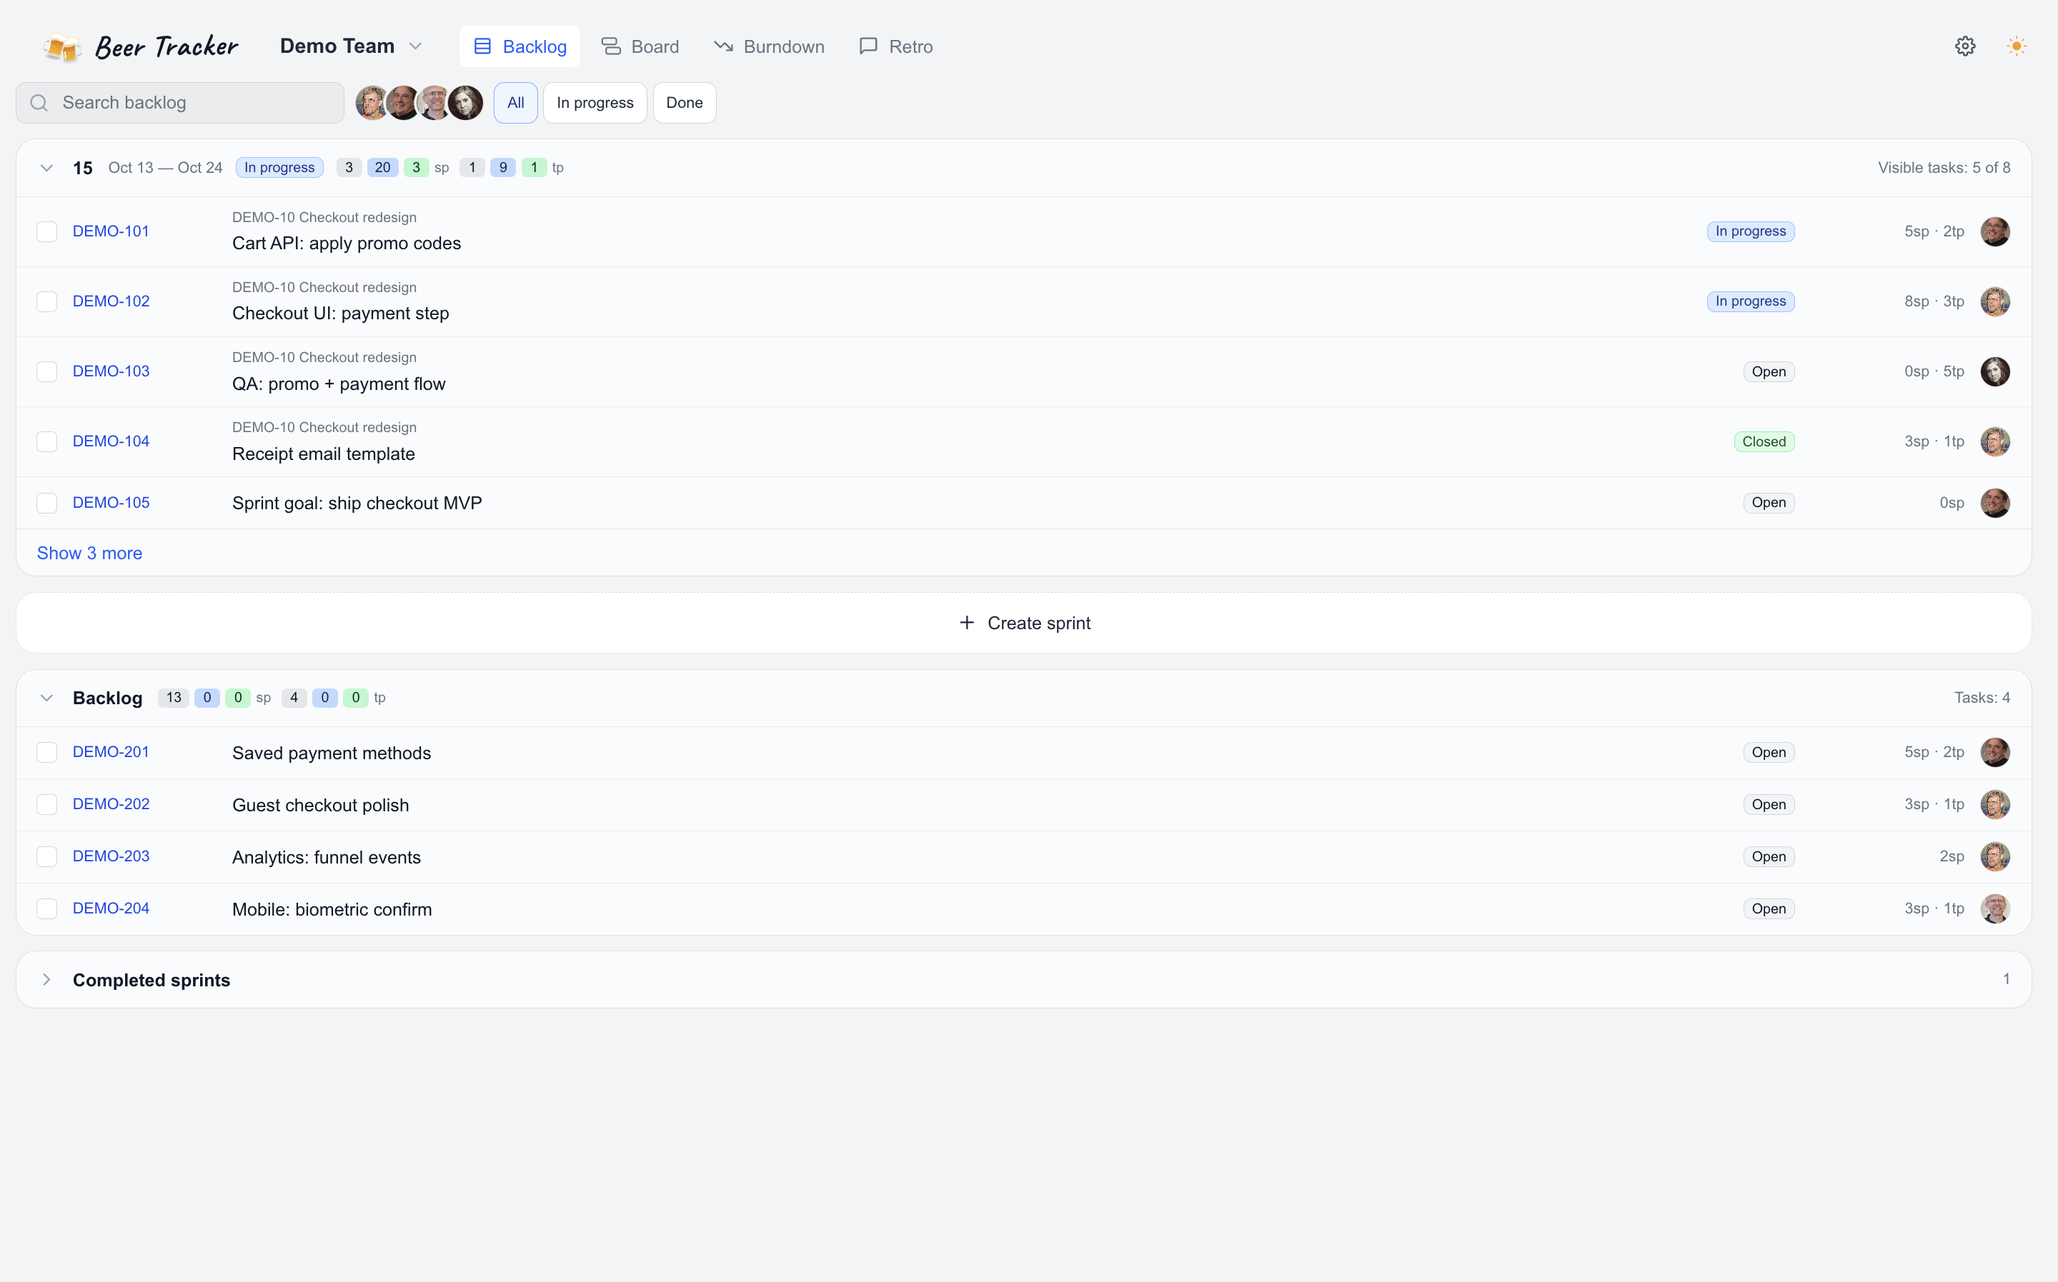
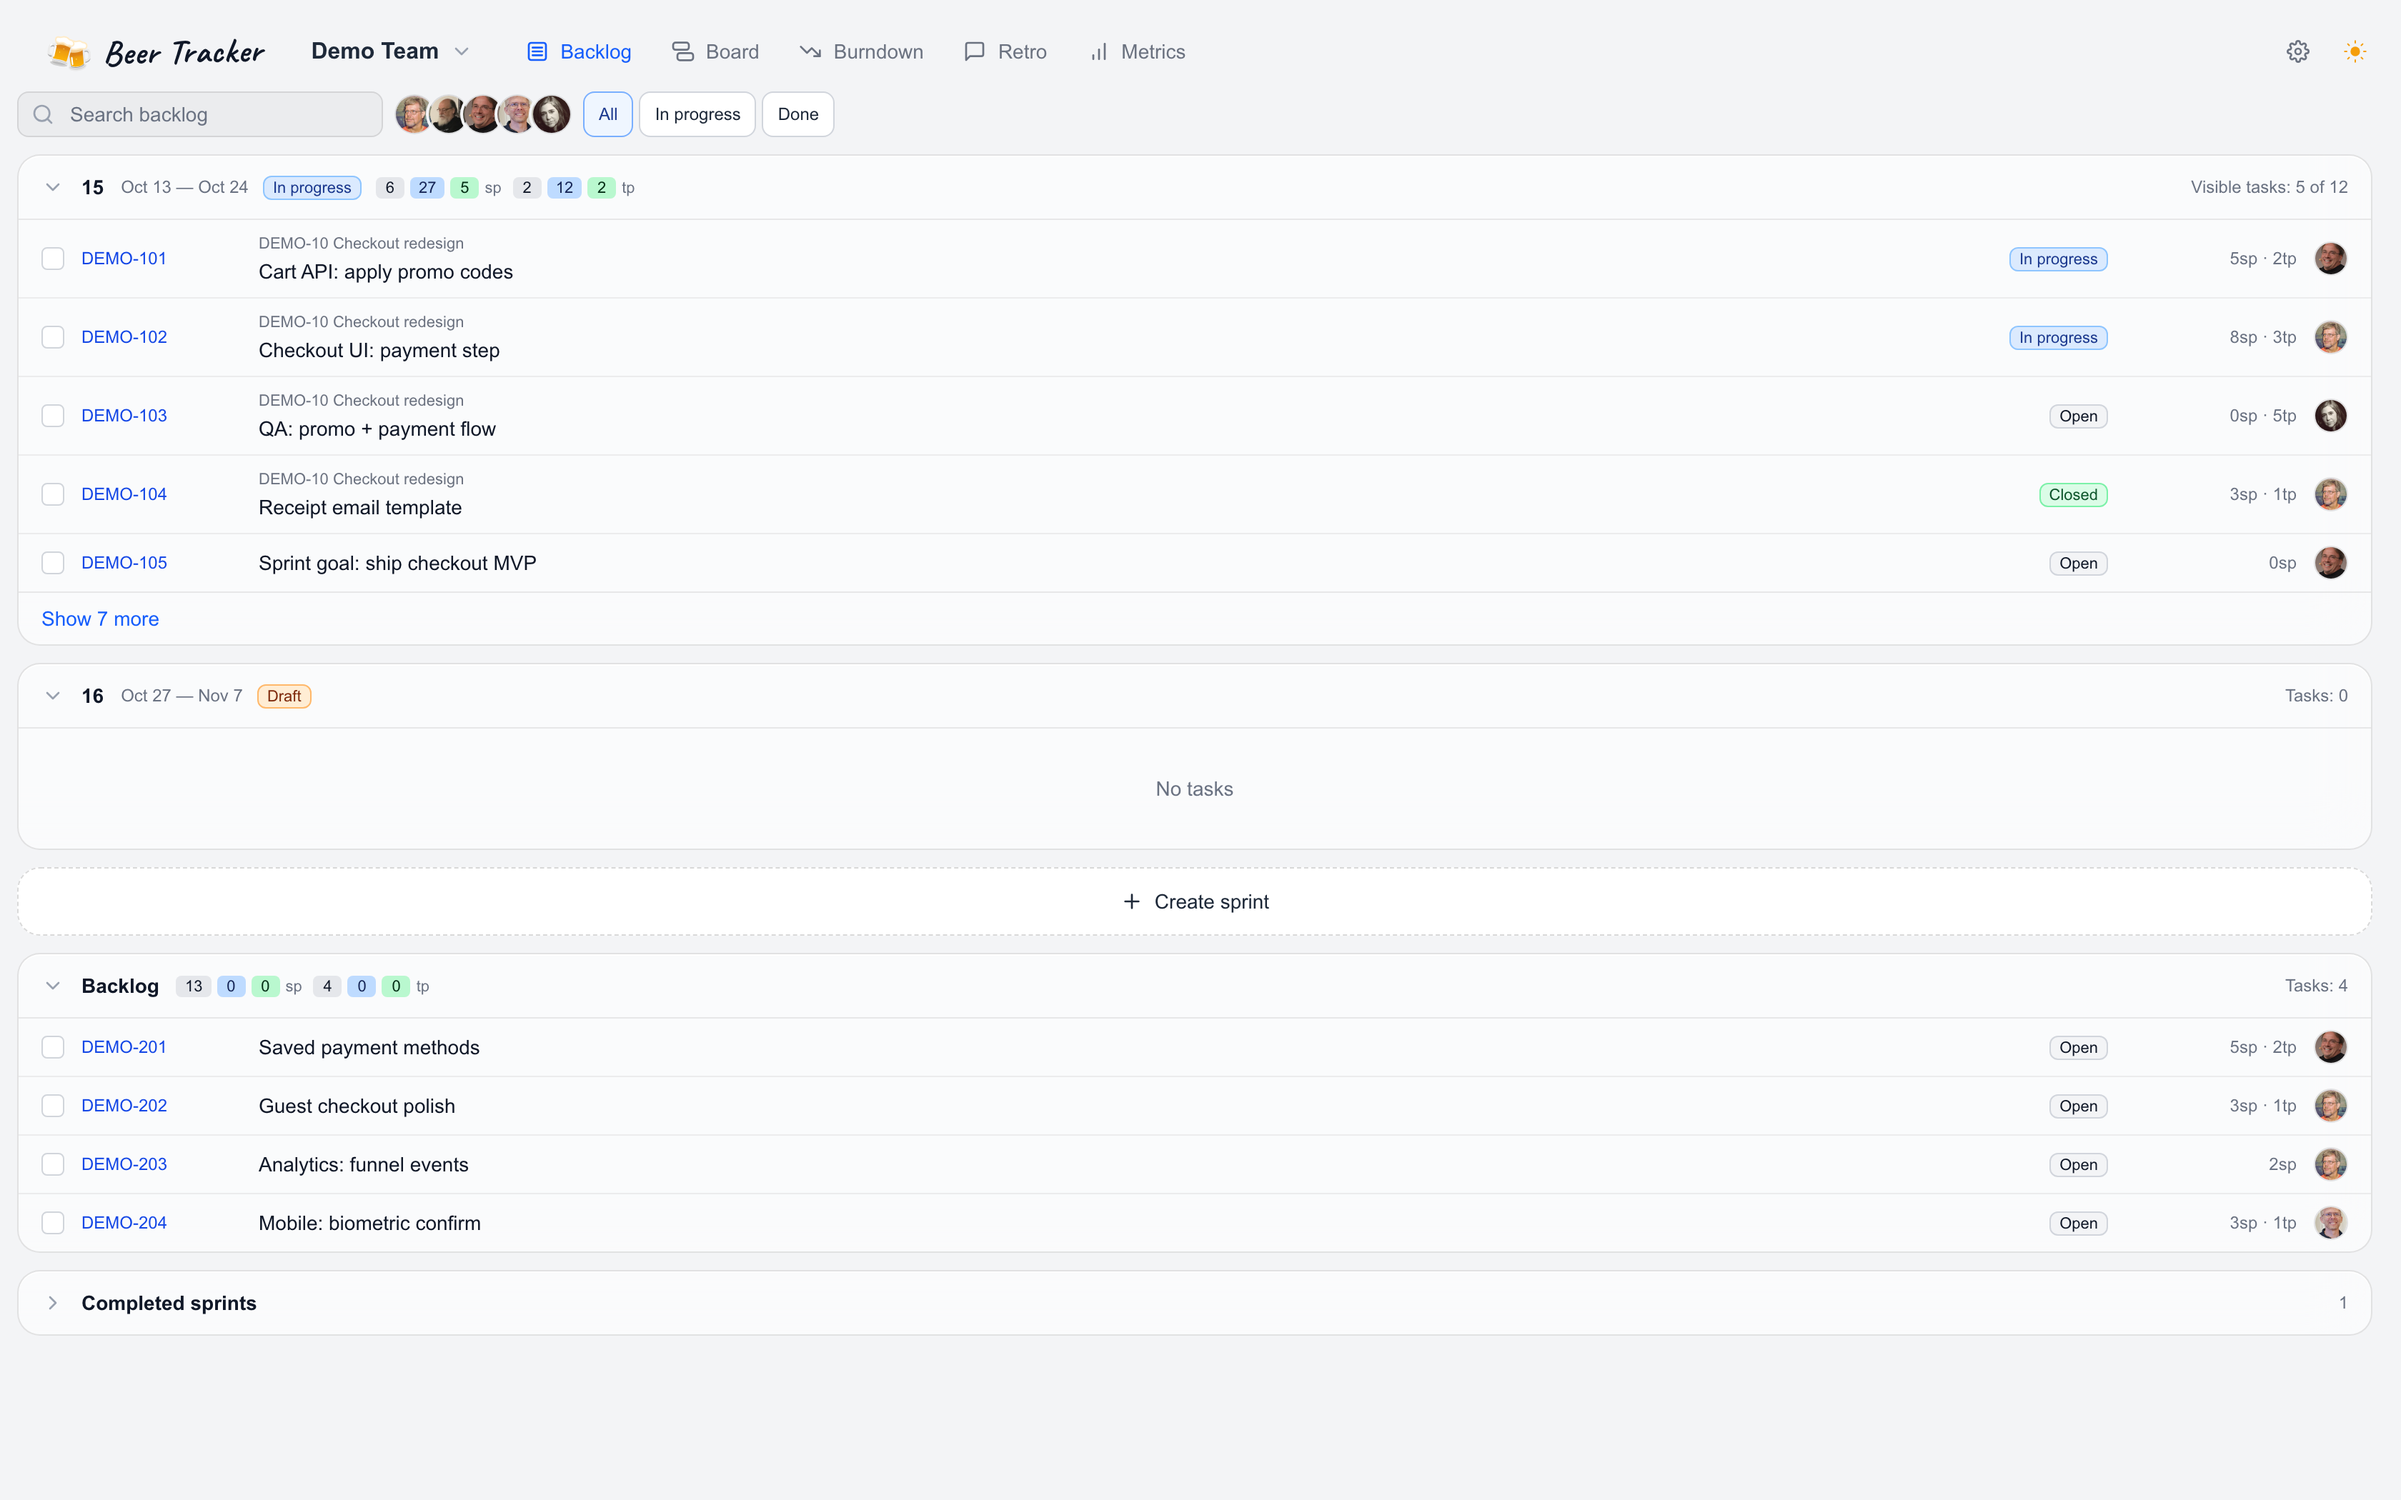
docs: Посадочная с анимациями и разделом «Метрики»
- анимации переноса, ресайза, связи, заметки и ретро вместо статичных скринов
- раздел «Метрики» и вид доски по фичам / канбан в «Планере»
- скрины пересняты в одном размере 1680×1050 @2x

diff --git a/docs/media/README.md b/docs/media/README.md
@@ -1,31 +1,38 @@
 # Медиа для README
 
-Слоты под скриншоты и GIF для посадочной [`README.md`](../../README.md). Источник живых кадров — [`/demo/planner`](http://localhost:3000/demo/planner).
+Слоты под скриншоты и анимации для посадочной [`README.md`](../../README.md). Источник живых кадров — [`/demo/planner`](http://localhost:3000/demo/planner).
 
 | Файл | Что | Источник |
 |------|-----|----------|
 | `logo-button-light.png` / `logo-button-dark.png` | Бренд без фона: две кружки из `public/assets/beer-emoji.json` и Caveat, цвет текста под тему | кадр покоя лотти шапки |
-| `swimlane-light.png` / `swimlane-dark.png` | Свимлейны | Board, сайдбар закрыт |
 | `backlog-light.png` / `backlog-dark.png` | Бэклог | Backlog |
 | `burndown-light.png` / `burndown-dark.png` | Burndown SP/TP | Burndown |
-| `retro-light.png` / `retro-dark.png` | Ретро + «Факты» | Retro |
+| `metrics-light.png` / `metrics-dark.png` | Метрики по кварталам | Metrics |
 | `fact-timeline-light.png` / `fact-timeline-dark.png` | Таймлайн факта под дорожками | Board, настройка «Таймлайн факта» |
 | `collaboration-light.png` / `collaboration-dark.png` | Presence: стек в шапке и аватары на карточках | Board |
+| `drag-resize-light.webp` / `drag-resize-dark.webp` | Анимация: перенос карточки к другому человеку и смена длительности | Board |
+| `link-light.webp` / `link-dark.webp` | Анимация: связь задач инструментом Link | Board |
+| `note-light.webp` / `note-dark.webp` | Анимация: заметка с чеклистом | Board, инструмент Note |
+| `retro-light.webp` / `retro-dark.webp` | Анимация: карточки в колонках ретро | Retro |
 
-Демо-участники (имена + портреты Wikimedia в [`public/demo/avatars/`](../../public/demo/avatars/)): Linus Torvalds, Guido van Rossum, Margaret Hamilton, John Carmack.
+Демо-участники (имена + портреты Wikimedia в [`public/demo/avatars/`](../../public/demo/avatars/)): Linus Torvalds, Guido van Rossum, Margaret Hamilton, John Carmack, Ken Thompson.
 
 ## Как обновить скрины
+
+Скилл [`landing-docs`](../../.claude/skills/landing-docs/SKILL.md) (`/landing-docs` в Claude Code) снимает скрины (`capture.cjs`) и записывает анимации (`record.cjs`) скриптами, сверяет текст посадочной с продуктом и прогоняет его через humanizer. Вручную:
 
 1. `pnpm docker:dev` → [http://localhost:3000/demo/planner](http://localhost:3000/demo/planner)
 2. Язык интерфейса — английский (кадры на посадочной в одном языке). Светлая / тёмная тема в шапке; вкладки Board / Backlog / Burndown / Retro
 3. Закройте сайдбар и онбординг, кадр ~1680×1050 → соответствующие `*-light.png` / `*-dark.png` в этой папке. Факт — с включённым «Таймлайн факта под свимлейном».
 
+Анимации вручную не пишутся: сценарии (жесты мыши, набор текста) описаны в `record.cjs`.
+
 ## Светлая / тёмная в README
 
-В GitHub README нет кликабельных табов (JS/CSS режется). Пары скринов подключаются через `<picture>` + `prefers-color-scheme`: показывается версия под тему GitHub (Appearance → Theme). Оба файла (`*-light.png` / `*-dark.png`) остаются в репо.
+В GitHub README нет кликабельных табов (JS/CSS режется). Пары скринов подключаются через `<picture>` + `prefers-color-scheme`: показывается версия под тему GitHub (Appearance → Theme). Оба файла пары остаются в репо.
 
 ## Рекомендации
 
 - Ширина ~1200–1600 px; в README обычно `width="900"`.
 - Демо-фикстуры без личных данных и реальных ключей задач.
-- GIF: 3–8 с; вес желательно &lt; 5–8 MB.
+- Анимации — анимированный WebP @2x (2880×1800), 5–15 с, до ~3 MB на файл. GitHub показывает его как картинку; GIF там тоже работает, но это 256 цветов (полосы на градиентах UI) и в разы больший вес.

diff --git a/README.en.md b/README.en.md
@@ -25,6 +25,7 @@
   <a href="#planner">Planner</a> ·
   <a href="#backlog">Backlog</a> ·
   <a href="#burndown">Burndown</a> ·
+  <a href="#metrics">Metrics</a> ·
   <a href="#fact-timeline">Fact timeline</a> ·
   <a href="#retro">Retro</a> ·
   <a href="#collaboration">Collaboration</a> ·
@@ -37,13 +38,35 @@
 
 The grid covers the sprint’s working days, taken from the tracker. Each day has 2, 3, or 4 slots (three by default), and every developer and tester gets their own lane.
 
-Drag a card to move it, or pull its edge to change the duration. Time off and tech sprints show up on the same lanes. You can pin notes to the board as the sprint goes, so nothing slips; links, checklists, and reactions work inside them. The sprint’s issue list sits on the right.
+You can view the board by person, by feature, or as a kanban by status. Cards arrange themselves into rows; turn off auto-arrange to place tasks and notes by hand, and the whole team sees that layout.
+
+Drag a card to move it, or pull its edge to change the duration. Time off and tech sprints show up on the same lanes. The sprint’s issue list sits on the right.
 
 <p align="center">
   <picture>
-    <source media="(prefers-color-scheme: dark)" srcset="./docs/media/swimlane-dark.png" />
-    <source media="(prefers-color-scheme: light)" srcset="./docs/media/swimlane-light.png" />
-    <img src="./docs/media/swimlane-light.png" alt="Sprint planner swimlanes" width="900" />
+    <source media="(prefers-color-scheme: dark)" srcset="./docs/media/drag-resize-dark.webp" />
+    <source media="(prefers-color-scheme: light)" srcset="./docs/media/drag-resize-light.webp" />
+    <img src="./docs/media/drag-resize-light.webp" alt="Moving a card and changing its duration" width="900" />
+  </picture>
+</p>
+
+To link two tasks, pick the Link tool, click one card and then the other; the link is saved in the tracker.
+
+<p align="center">
+  <picture>
+    <source media="(prefers-color-scheme: dark)" srcset="./docs/media/link-dark.webp" />
+    <source media="(prefers-color-scheme: light)" srcset="./docs/media/link-light.webp" />
+    <img src="./docs/media/link-light.webp" alt="Linking two tasks" width="900" />
+  </picture>
+</p>
+
+You can pin notes to the board as the sprint goes, so nothing slips; links, checklists, and reactions work inside them.
+
+<p align="center">
+  <picture>
+    <source media="(prefers-color-scheme: dark)" srcset="./docs/media/note-dark.webp" />
+    <source media="(prefers-color-scheme: light)" srcset="./docs/media/note-light.webp" />
+    <img src="./docs/media/note-light.webp" alt="A checklist note on the board" width="900" />
   </picture>
 </p>
 
@@ -71,6 +94,18 @@ Story points and test points per sprint day, with an ideal line and a marker for
   </picture>
 </p>
 
+## Metrics
+
+A dashboard for the board over 2 to 8 quarters: say/do, velocity, cycle time, carry-over and bug share, each compared with the previous quarter. Per-sprint charts below show committed versus closed points, where the work went and where tasks wait. You can filter by team and export to CSV.
+
+<p align="center">
+  <picture>
+    <source media="(prefers-color-scheme: dark)" srcset="./docs/media/metrics-dark.png" />
+    <source media="(prefers-color-scheme: light)" srcset="./docs/media/metrics-light.png" />
+    <img src="./docs/media/metrics-light.png" alt="Sprint metrics by quarter" width="900" />
+  </picture>
+</p>
+
 ## Fact timeline
 
 Sync pulls status history from the tracker and draws a **fact timeline** on the swimlane: when each issue was in progress, in review, and in test. It sits next to the plan rather than replacing it.
@@ -91,9 +126,9 @@ Columns, notes, images, comments, and reactions. The **Facts** side panel lists 
 
 <p align="center">
   <picture>
-    <source media="(prefers-color-scheme: dark)" srcset="./docs/media/retro-dark.png" />
-    <source media="(prefers-color-scheme: light)" srcset="./docs/media/retro-light.png" />
-    <img src="./docs/media/retro-light.png" alt="Sprint retro board" width="900" />
+    <source media="(prefers-color-scheme: dark)" srcset="./docs/media/retro-dark.webp" />
+    <source media="(prefers-color-scheme: light)" srcset="./docs/media/retro-light.webp" />
+    <img src="./docs/media/retro-light.webp" alt="Sprint retro board" width="900" />
   </picture>
 </p>
 
